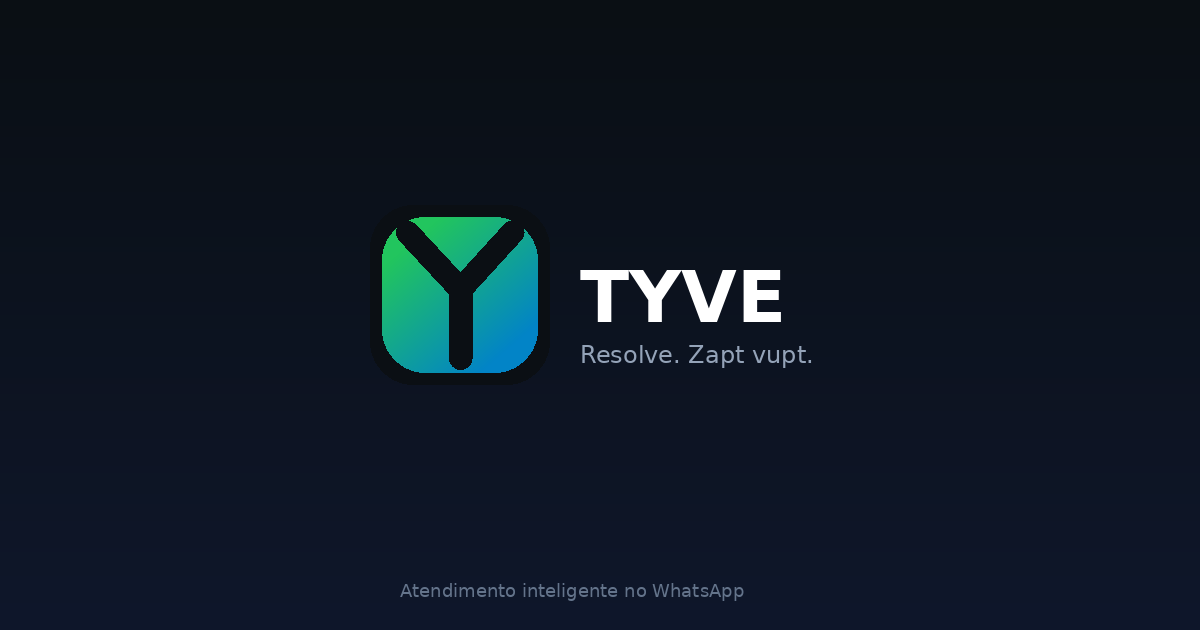
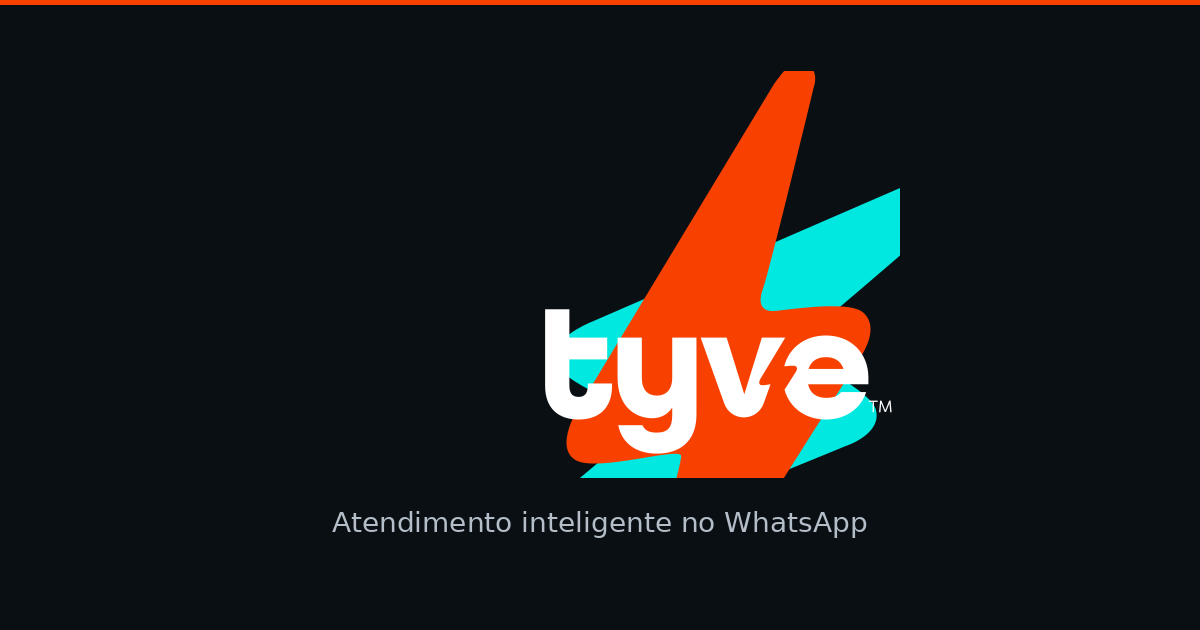
fix: og-image with correct TYVE branding v3

diff --git a/index.html b/index.html
@@ -7,7 +7,7 @@
   <meta name="description" content="A Tyve transforma seu WhatsApp no melhor atendente do seu negócio — 24h por dia. Responde, qualifica e encaminha. Feito no Brasil." />
   <meta property="og:title" content="Tyve — Seu WhatsApp vira seu melhor atendente" />
   <meta property="og:description" content="Responde, qualifica e encaminha. Sem complicação. 24h por dia." />
-  <meta property="og:image" content="https://tyve.com.br/og-image.png?v=2" />
+  <meta property="og:image" content="https://tyve.com.br/og-image.png?v=3" />
   <meta property="og:url" content="https://tyve.com.br" />
   <meta property="og:type" content="website" />
   <meta property="og:locale" content="pt_BR" />
